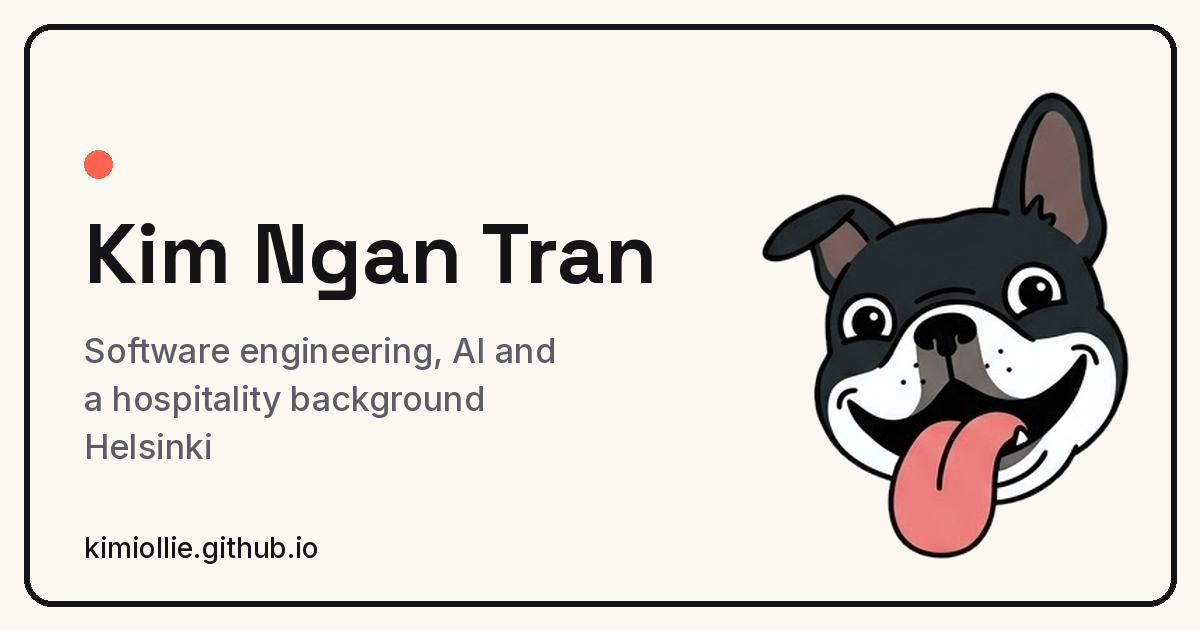
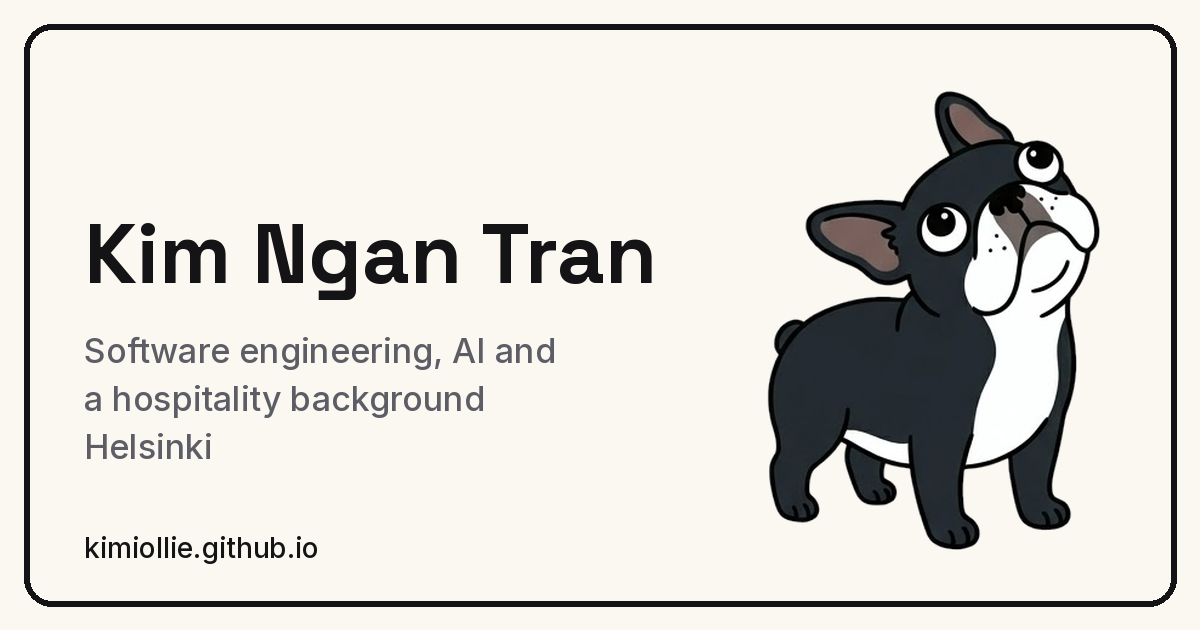
Fix phone header overlap, shorten name on narrow screens, new thumbnail and Canopy image

Changed region(s): [[0.6167, 0.1508, 0.9558, 0.9048], [0.0617, 0.2413, 0.0925, 0.3016]]

diff --git a/src/components/Header.tsx b/src/components/Header.tsx
@@ -1,6 +1,13 @@
 import { useEffect, useRef, useState } from 'react';
 import { Link, NavLink, useLocation } from 'react-router-dom';
-import { BRAND, CV_URL, cvButtonLabel, cvButtonShortLabel } from '../content/site.ts';
+import {
+  BRAND,
+  BRAND_SHORT,
+  BRAND_TINY,
+  CV_URL,
+  cvButtonLabel,
+  cvButtonShortLabel,
+} from '../content/site.ts';
 import ThemeToggle from './ThemeToggle.tsx';
 import styles from './Header.module.css';
 
@@ -33,7 +40,7 @@ function Header() {
   return (
     <header className={styles.header}>
       <div className={`wrap ${styles.inner}`}>
-        <Link to="/" className={styles.brand}>
+        <Link to="/" className={styles.brand} aria-label={BRAND}>
           <svg className={styles.paw} viewBox="0 0 20 20" aria-hidden="true">
             <ellipse cx="10" cy="13" rx="5" ry="4.2" />
             <ellipse cx="4.2" cy="7.6" rx="1.9" ry="2.4" />
@@ -41,7 +48,16 @@ function Header() {
             <ellipse cx="12" cy="4.6" rx="1.9" ry="2.4" />
             <ellipse cx="15.8" cy="7.6" rx="1.9" ry="2.4" />
           </svg>
-          {BRAND}
+          {/* Only one name shows at a time: full, then shorter as the screen gets narrower. */}
+          <span className={`${styles.brandText} ${styles.nameFull}`} aria-hidden="true">
+            {BRAND}
+          </span>
+          <span className={`${styles.brandText} ${styles.nameShort}`} aria-hidden="true">
+            {BRAND_SHORT}
+          </span>
+          <span className={`${styles.brandText} ${styles.nameTiny}`} aria-hidden="true">
+            {BRAND_TINY}
+          </span>
         </Link>
 
         <nav className={styles.nav} aria-label="Main">

diff --git a/src/components/Header.module.css b/src/components/Header.module.css
@@ -21,6 +21,18 @@
   font-weight: 600;
   text-decoration: none;
   white-space: nowrap;
+  min-width: 0;
+}
+
+/* Safety net: if the header is ever too tight, the name gets "…" instead of sliding under Menu. */
+.brandText {
+  overflow: hidden;
+  text-overflow: ellipsis;
+}
+
+.nameShort,
+.nameTiny {
+  display: none;
 }
 
 .paw {
@@ -127,29 +139,54 @@
   }
 }
 
-@media (max-width: 379.98px) {
+/* Phones: brand, Menu, day/night and the CV button must fit on one line. */
+@media (max-width: 439.98px) {
   .inner {
     gap: 8px;
   }
 
   .brand {
     gap: 7px;
-    font-size: 1rem;
+    font-size: 1.05rem;
+  }
+
+  .paw {
+    width: 20px;
+    height: 20px;
   }
 
   .cv,
   .menuButton {
     padding: 7px 12px;
   }
-}
 
-/* Very narrow phones: brand, Menu, day/night and the CV button must fit on one line. */
-@media (max-width: 439.98px) {
   .cvLong {
     display: none;
   }
 
   .cvShort {
+    display: inline;
+  }
+}
+
+/* Narrow phones: "Kim Ngan Tran" becomes "Kim Tran". */
+@media (max-width: 379.98px) {
+  .nameFull {
+    display: none;
+  }
+
+  .nameShort {
+    display: inline;
+  }
+}
+
+/* Very narrow phones: "Kim Tran" becomes "Kim". */
+@media (max-width: 329.98px) {
+  .nameShort {
+    display: none;
+  }
+
+  .nameTiny {
     display: inline;
   }
 }

diff --git a/src/content/projects.ts b/src/content/projects.ts
@@ -13,7 +13,7 @@ export const projects: Project[] = [
   {
     id: 'carbon-footprint',
     image: 'carbon-footprint.webp',
-    imageAlt: 'Welcome screen of the carbon footprint app, with a footprint and CO2 icon',
+    imageAlt: 'Six screens of the carbon footprint app: login, sign up, landing, overview, add a trip and live tracking',
     title: 'Carbon footprint app (iOS)',
     status: 'In progress',
     meta: [

diff --git a/src/content/site.ts b/src/content/site.ts
@@ -1,6 +1,9 @@
 import type { QuickLink, RoomItemId } from './types.ts';
 
 export const BRAND = 'Kim Ngan Tran';
+/** Shorter names for the header when the screen is narrow. */
+export const BRAND_SHORT = 'Kim Tran';
+export const BRAND_TINY = 'Kim';
 export const CV_URL = '/Kim_Ngan_Tran_CV.pdf';
 export const EMAIL = 'sylviakimtran@gmail.com';
 export const LINKEDIN_URL = 'https://www.linkedin.com/in/kim-tran-do';
